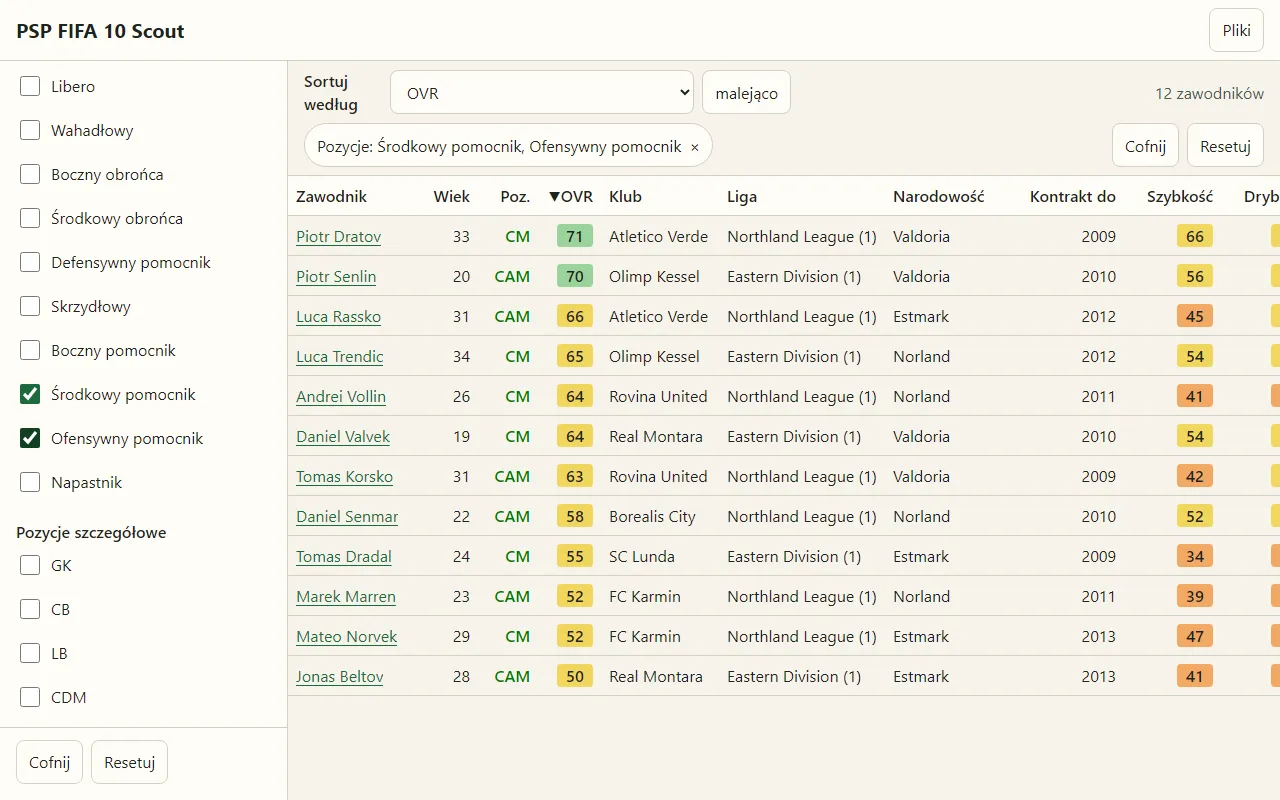
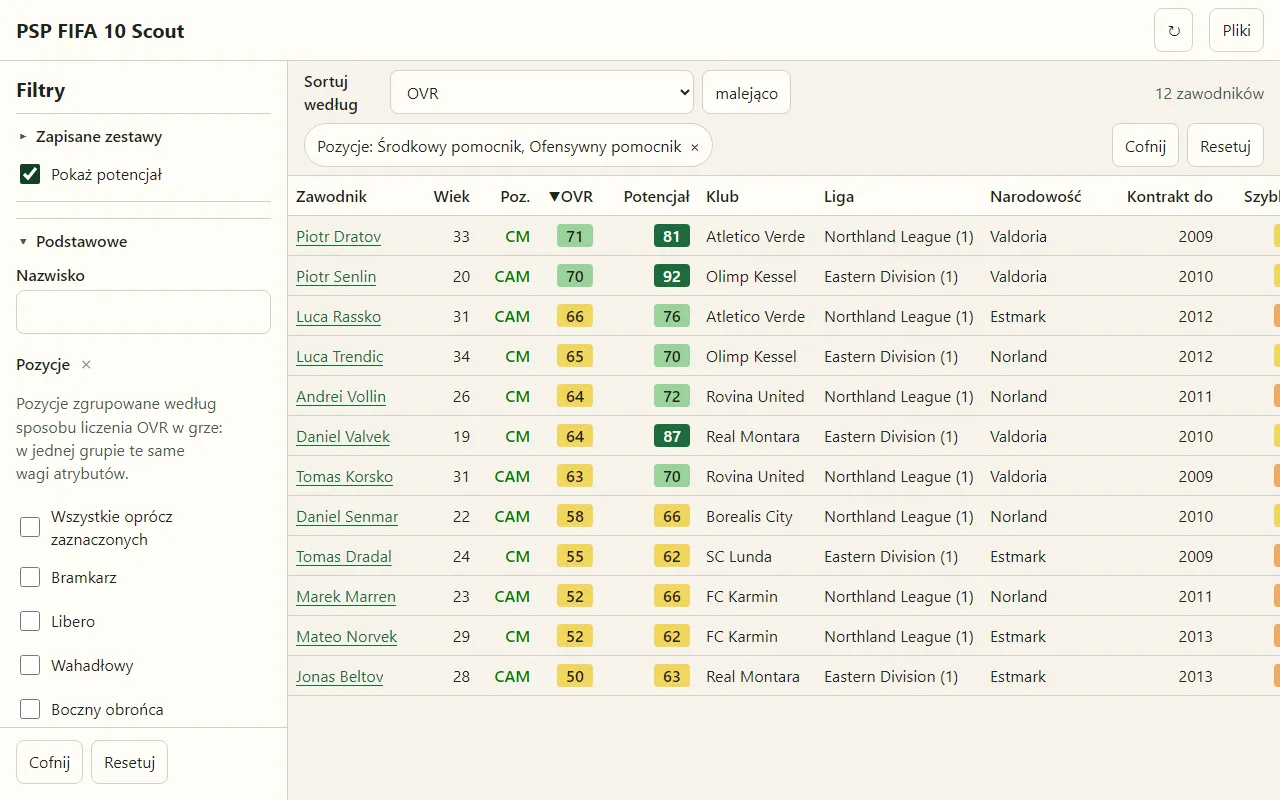
docs(start): lead the start page with potential and the peak OVR
The start page, its meta description and the README now open with what
the game does not show: potential, and with a career save the peak OVR
from the development curves at every position and the growth left to it.
The wide list screenshot shows the potential column; screenshots now run
with the service worker allowed, so the offline failure notice stays out.

diff --git a/index.html b/index.html
@@ -6,7 +6,7 @@
     <title>PSP FIFA 10 Scout</title>
     <meta
       name="description"
-      content="Wyszukiwarka zawodników do trybu menedżera FIFA 10 na PSP: wczytaj własną grę i zapis kariery, filtruj i porównuj zawodników. Działa w przeglądarce, pliki zostają na urządzeniu."
+      content="Potencjał zawodników FIFA 10 na PSP, a z zapisem kariery szczyt OVR na każdej pozycji. Wyszukiwarka do trybu menedżera; pliki zostają na urządzeniu."
     />
     <link rel="canonical" href="https://psp-fifa10-scout.visvaya.workers.dev/" />
     <!-- The colour of the top bar (--color-surface in src/ui/styles.css). -->
@@ -35,24 +35,37 @@
               <h2 id="about-title">O narzędziu</h2>
               <p>
                 PSP FIFA 10 Scout to wyszukiwarka zawodników do trybu menedżera FIFA 10 na PSP,
-                także w emulatorze PPSSPP. Czyta bazę zawodników z twojej gry i zapis kariery,
-                a potem pozwala filtrować i porównywać zawodników, żeby znaleźć tych, których warto
-                kupić.
+                także w emulatorze PPSSPP. Czyta bazę zawodników z twojej gry i zapis kariery. Gra
+                nie pokazuje liczby potencjału. Narzędzie ją pokazuje, a z zapisem kariery także
+                szczyt OVR, czyli ocenę, do której zawodnik dojdzie według krzywych rozwoju gry, na
+                każdej pozycji. Pozwala też filtrować i porównywać zawodników, żeby znaleźć tych,
+                których warto kupić.
               </p>
 
               <h3>Co robi</h3>
               <ul>
                 <li>
+                  Z zapisem kariery pokazuje szczyt OVR i zapas do szczytu, czyli ile zawodnik
+                  jeszcze urośnie. Szczyt to prognoza z krzywych rozwoju gry bez przyszłych
+                  przyrostów z meczów i treningu; na pozycji preferowanej ta sama co na wykresie
+                  rozwoju w grze.
+                </li>
+                <li>
+                  Szczyt liczy na każdej pozycji i wskazuje pozycję, na której jest największy.
+                  Pozycja najlepsza dziś nie musi być najlepsza w szczycie.
+                </li>
+                <li>Potencjał i szczyt są domyślnie ukryte; jeden przełącznik je pokazuje.</li>
+                <li>
                   Filtruje po pozycji, lidze, klubie, narodowości, wieku, ocenie (OVR), potencjale,
                   atrybutach, kontrakcie i cechach, a wyniki sortuje. Z zapisem kariery dochodzą
-                  filtry po formie, morale, kontuzjach, liście transferowej, cenie i zarobkach.
+                  filtry po szczycie OVR, zapasie do szczytu, formie, morale, kontuzjach, liście
+                  transferowej, cenie i zarobkach.
                 </li>
-                <li>Liczy OVR zawodnika wzorem gry, także na innych pozycjach.</li>
                 <li>
-                  Pokazuje kartę zawodnika: profil, klub, kontrakt oraz OVR na pozycjach. Zapis
-                  kariery dodaje formę, morale, kontuzje, listę transferową, cenę oraz zarobki.
+                  Liczy OVR wzorem gry na każdej pozycji. Karta zawodnika pokazuje profil, klub,
+                  kontrakt i OVR na pozycjach; zapis kariery dodaje szczyt OVR, formę, morale,
+                  kontuzje, listę transferową, cenę oraz zarobki.
                 </li>
-                <li>Domyślnie ukrywa potencjał; jeden przełącznik go pokazuje.</li>
                 <li>Pokazuje nazwy klubów, lig i krajów w wybranym języku gry.</li>
                 <li>
                   Instaluje się jak aplikacja na telefonie i komputerze, a po pierwszej wizycie
@@ -97,9 +110,9 @@
                   width="1280"
                   height="800"
                   loading="lazy"
-                  alt="Tabela zawodników z panelem filtrów po lewej: zaznaczone pozycje środkowy i ofensywny pomocnik, 12 wyników posortowanych według OVR."
+                  alt="Tabela zawodników z panelem filtrów po lewej: zaznaczone pozycje środkowy i ofensywny pomocnik oraz pole „Pokaż potencjał”, 12 wyników posortowanych według OVR, obok OVR kolumna potencjału."
                 />
-                <figcaption>Lista z filtrem pozycji (przykładowe dane)</figcaption>
+                <figcaption>Lista z filtrem pozycji i potencjałem (przykładowe dane)</figcaption>
               </figure>
               <figure>
                 <img
@@ -126,8 +139,9 @@
               <details>
                 <summary>Czy potrzebny jest zapis kariery?</summary>
                 <p>
-                  Nie. Sama baza wystarcza do wyszukiwania i porównywania zawodników. Zapis dodaje
-                  formę, morale, kontuzje, listę transferową, cenę i zarobki oraz filtry po nich.
+                  Nie. Sama baza wystarcza do wyszukiwania i porównywania zawodników, także po
+                  potencjale. Zapis dodaje szczyt OVR, formę, morale, kontuzje, listę transferową,
+                  cenę i zarobki oraz filtry po nich.
                 </p>
               </details>
               <details>

diff --git a/scripts/make-screenshots.ts b/scripts/make-screenshots.ts
@@ -37,7 +37,10 @@ const SHOTS: readonly Shot[] = [
     file: "list-wide.webp",
     viewport: { width: 1280, height: 800 },
     phone: false,
-    arrange: checkGroups,
+    arrange: async (page) => {
+      await checkGroups(page);
+      await page.getByRole("checkbox", { name: "Pokaż potencjał" }).check();
+    },
   },
   {
     file: "card-wide.webp",
@@ -98,7 +101,8 @@ const shoot = async (
     viewport: shot.viewport,
     deviceScaleFactor: shot.phone ? PHONE_SCALE : 1,
     hasTouch: shot.phone,
-    serviceWorkers: "block",
+    // A blocked worker would put the notice that the app cannot work offline into the picture.
+    serviceWorkers: "allow",
   });
   const page = await context.newPage();
   await page.goto(baseUrl);

diff --git a/README.md b/README.md
@@ -14,6 +14,14 @@ in a planned redesign.
 
 What it does today:
 
+- Shows each player's potential, which the game does not show as a number. This needs only the
+  player database.
+- With a career save: projects each player's peak OVR, the rating he reaches by the game's
+  development curves (at his preferred position the same as the game's development chart, without
+  future gains from matches and training), and how much he still grows to it. The peak is counted
+  at every position, and the list can show it at the position where it is highest, which need not
+  be the one he plays best today.
+- Hides potential and the peak by default; one switch reveals them.
 - Reads the player database (`fifa.db`) straight from your disc image (ISO), or from a `fifa.db`
   file you extracted yourself. From the image it reads only the database, the language files and
   the game's identifier.
@@ -26,8 +34,7 @@ What it does today:
   in your ISO, or one `.loc` file you attach with its `string.idx`.
 - Computes each player's overall rating (OVR) with the game's own formula at every position, and
   the rating at a position in each way the game rates it, with the gain over the OVR.
-- In a career: projects each player's peak OVR (also at the player's best position) and the growth
-  left to it; shows league and cup appearances, goals, assists and clean sheets for the season.
+- In a career: shows league and cup appearances, goals, assists and clean sheets for the season.
 - Prices players and wages with the game's formulas, and shows on the player card what an offer
   needs to succeed (fee, wage, contract length) or why the game would refuse any offer, for example
   when the club will not sell.
@@ -37,7 +44,6 @@ What it does today:
   saved as named sets, the last change can be undone, and each filter can show or hide its value as
   a list column. The list sorts by its column labels, and each player has a detail card.
 - Keeps your own watchlist with notes, without the game's limit of 20 players.
-- Hides potential by default; one switch reveals it.
 - Installs as an app on a phone or a PC and works offline after the first visit. On an iPhone, pick
   the files in the Files app.
 
